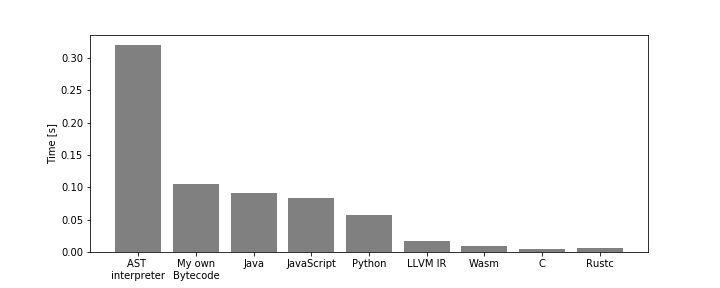
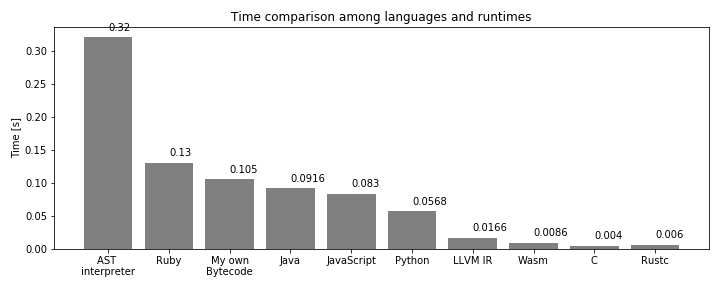
Add Ruby script for profiling

Changed region(s): [[0.0, 0.0312, 0.9778, 0.9688]]

diff --git a/scripts/mandel_highres.rb b/scripts/mandel_highres.rb
@@ -1,0 +1,42 @@
+def printdensity(d)
+    if d > 127
+      return ' '
+    elsif d > 8
+      return '.'
+    elsif d > 4
+      return '+'
+    else
+      return '*'
+    end
+end
+
+def mandelconverge(creal, cimag)
+    r = creal
+    i = cimag
+    for it in 0..255
+        if r*r + i*i > 4
+            return it
+        end
+        next_r = r * r - i * i + creal
+        i = 2 * r * i + cimag
+        r = next_r
+    end
+    return it
+end
+
+def mandel(xmin, ymin, xstep, ystep, xsteps, ysteps)
+    xmax = xmin + xstep * xsteps
+    ymax = ymin + ystep * ysteps
+    ret = ""
+    for iy in 0..ysteps
+        y = iy * (ymax - ymin) * ystep + ymin
+        for ix in 0..xsteps
+            x = ix * (xmax - xmin) * xstep + xmin
+            ret += printdensity(mandelconverge(x,y))
+        end
+        ret += "\n"
+    end
+    return ret
+end
+
+print(mandel(-2.3, -2.0, 0.025 / 2.0, 0.05 / 2.0, 156.0, 80.0))

diff --git a/README.md b/README.md
@@ -15,7 +15,7 @@ My main interest is the performance among other implementations of runtime.
 Here is my simple Mandelbrot set ASCII art rendering time comparison.
 Surprisingly, Wasm is quite fast, even faster than native compiled code via LLVM IR (implemented in [inkwell-ruscal](https://github.com/msakuta/inkwell-ruscal)).
 There are other implementations using AST interpreter and my own bytecode interpreter (implemented in [ruscal](https://github.com/msakuta/ruscal)), but they are very slow.
-I also put Java (OpenJDK), Python and JavaScript (Node.js) as a comparison of popular scripting languages.
+I also put Ruby, Java (OpenJDK), Python and JavaScript (Node.js) as a comparison of popular scripting languages.
 I also put native C and Rust compiled code, but of course they are the fastest.
 
 ![performance](images/mandel-time.png)
